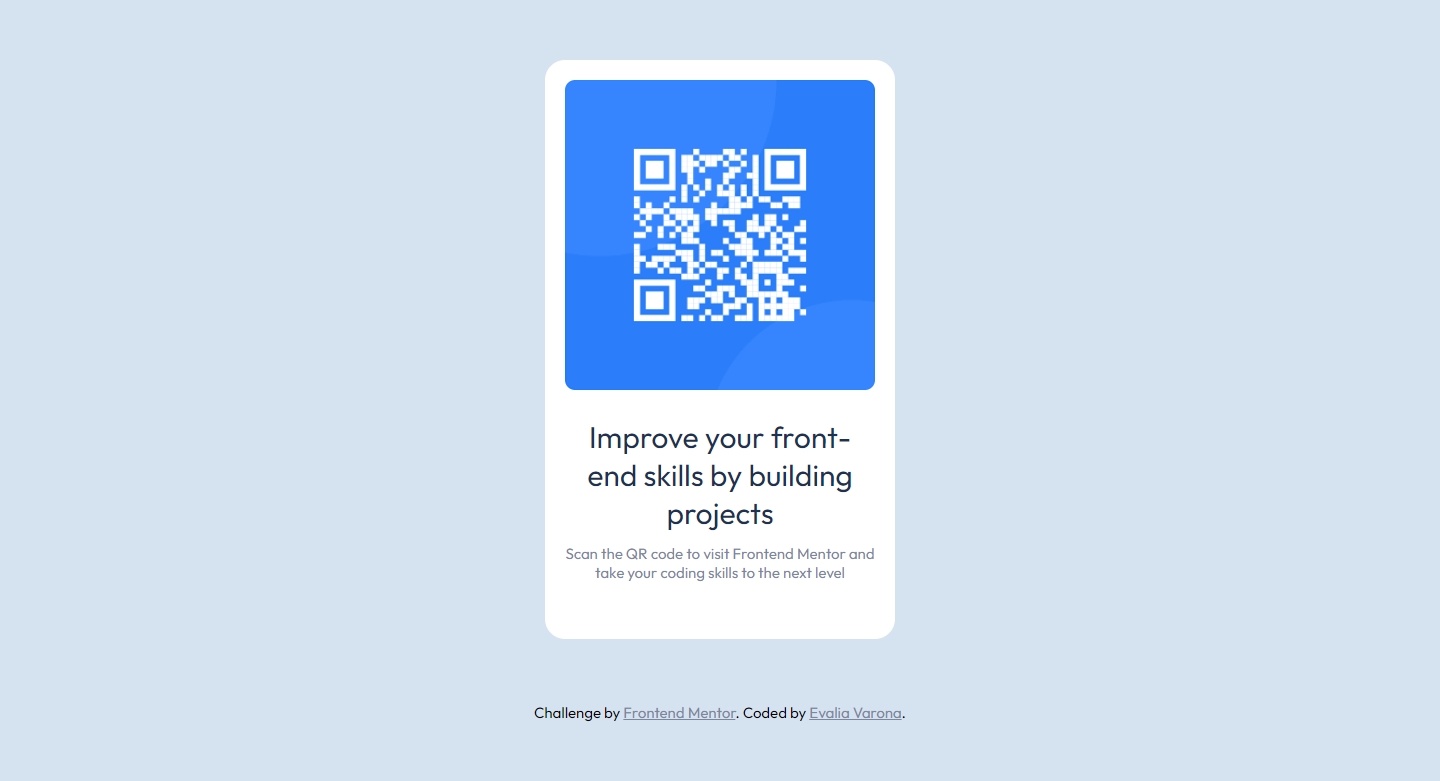
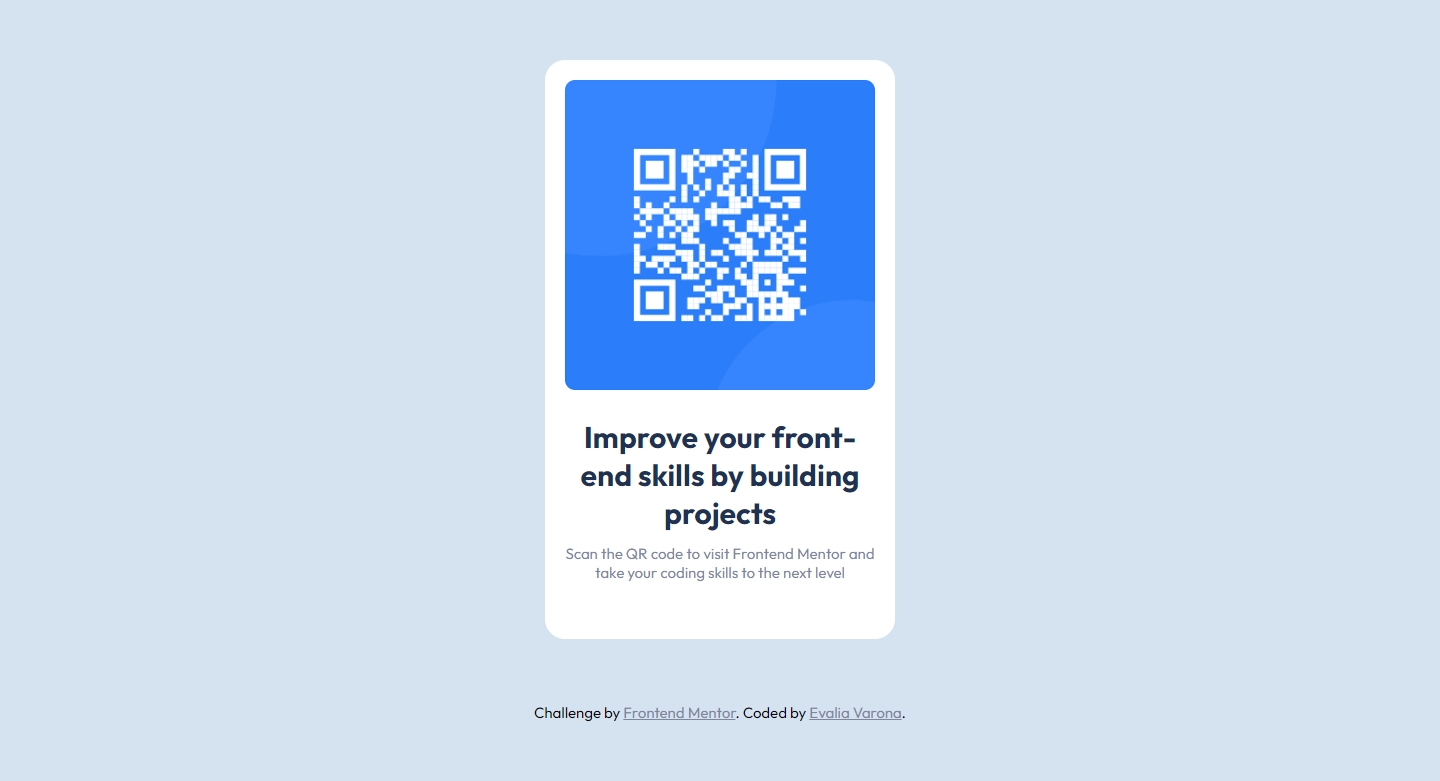
Edit h1 and update screenshots

Changed region(s): [[0.4062, 0.5531, 0.5938, 0.6761]]

diff --git a/styles.css b/styles.css
@@ -48,7 +48,7 @@ div {
     margin-top: 24px;
 }
 h1 {
-    font-weight: 400;
+    font-weight: 700;
     color: var(--clr-dark-blue);
 }
 p {
